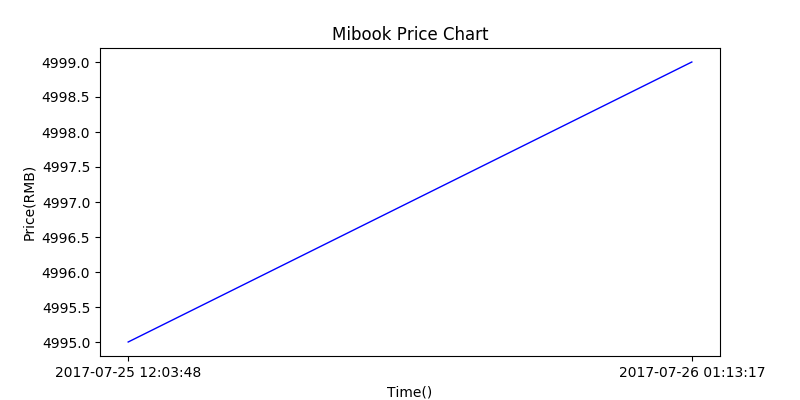
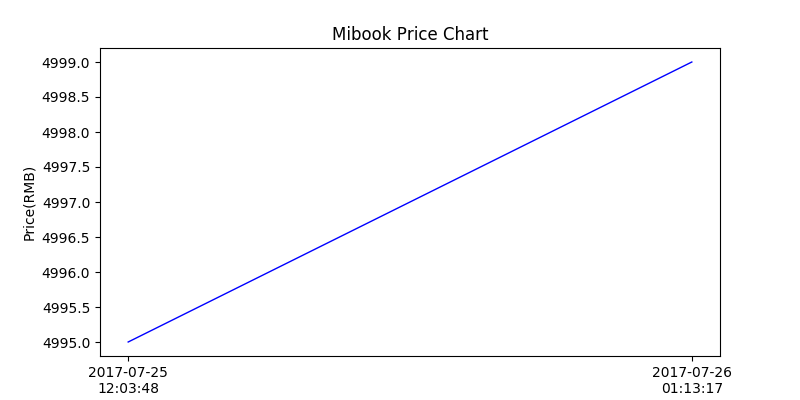
1.3 1. 添加绘制图像x轴显示方式。

Changed region(s): [[0.7812, 0.9, 0.9688, 0.99], [0.0625, 0.9, 0.25, 0.99], [0.4688, 0.96, 0.5312, 1.0]]

diff --git a/spider/jd_price_watcher/jd_price_graph.py b/spider/jd_price_watcher/jd_price_graph.py
@@ -17,7 +17,7 @@ class PlotGraph:
         base_item = price_dict[0]
         Y.append(base_item['price'])
         cur_time = base_item['time']
-        x_lable.append(cur_time)
+        x_lable.append(cur_time.replace(' ', '\n'))
         time_array = time.strptime(cur_time, "%Y-%m-%d %H:%M:%S")
         base_time_stamp = int(time.mktime(time_array))
         X.append(0)
@@ -25,7 +25,7 @@ class PlotGraph:
         for item in price_dict:
             Y.append(item['price'])
             cur_time = item['time']
-            x_lable.append(cur_time)
+            x_lable.append(cur_time.replace(' ', '\n'))
             time_array = time.strptime(cur_time, "%Y-%m-%d %H:%M:%S")
             time_stamp = int(time.mktime(time_array))
             diff = time_stamp - base_time_stamp

diff --git a/spider/jd_price_watcher/jd_price_main.py b/spider/jd_price_watcher/jd_price_main.py
@@ -11,6 +11,6 @@ if __name__ == '__main__':
         w.modifiy_xml_firstread()
     db.insert()
     dic = db.query()
-    print dic
+    #print dic
     plt = PlotGraph(dic, w.name)
     plt.gen_graph()
